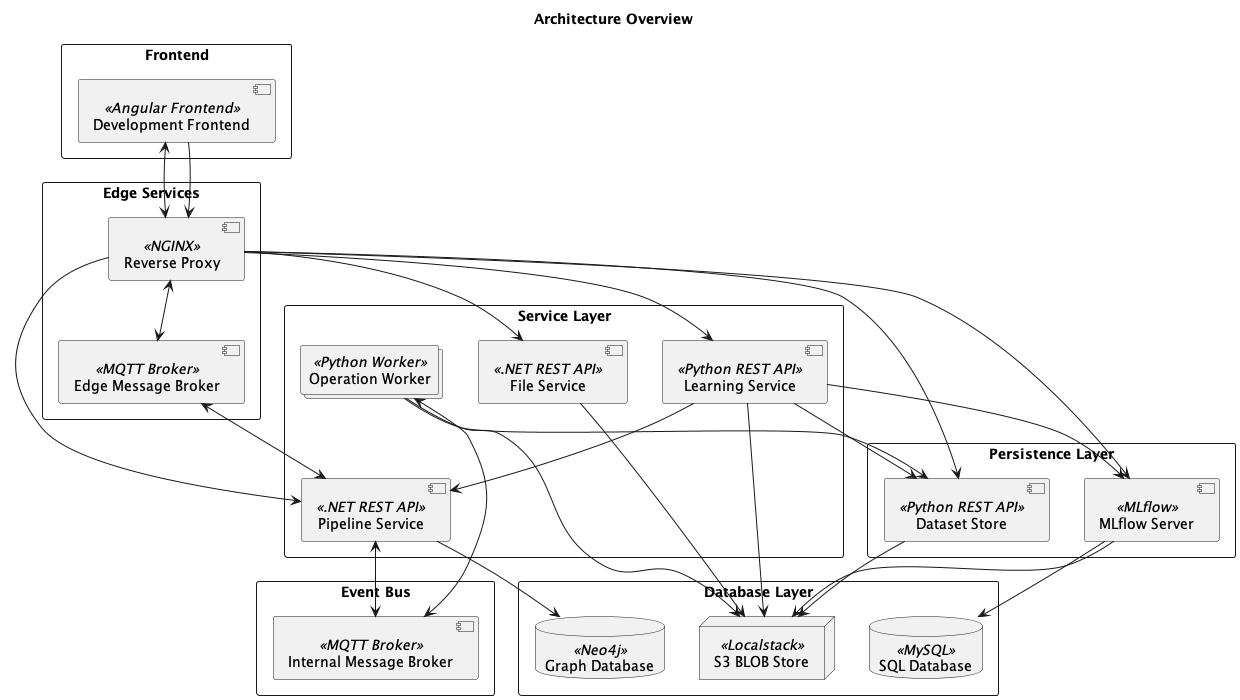
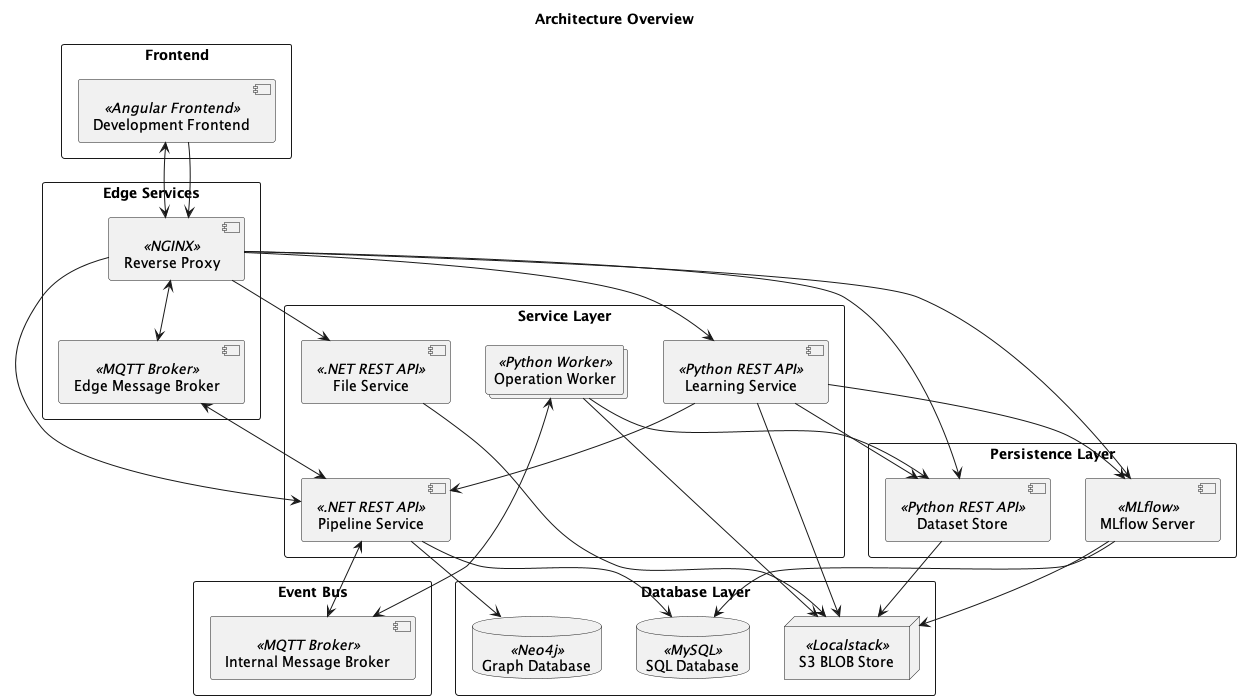
chore(pipeline-service): connect to database
Refs: PH-244

diff --git a/PipelineService/Dao/Impl/Neo4JPipelinesDao.cs b/PipelineService/Dao/Impl/Neo4JPipelinesDao.cs
@@ -32,8 +32,8 @@ namespace PipelineService.Dao.Impl
 
 			if (!_graphClient.IsConnected) await _graphClient.ConnectAsync();
 
-			_graphClient.WithAnnotations<PipelineContext>().Cypher.CreateUniqueConstraint<Operation>(n => n.Id);
-			_graphClient.WithAnnotations<PipelineContext>().Cypher.CreateUniqueConstraint<Pipeline>(n => n.Id);
+			_graphClient.WithAnnotations<PipelineGraphContext>().Cypher.CreateUniqueConstraint<Operation>(n => n.Id);
+			_graphClient.WithAnnotations<PipelineGraphContext>().Cypher.CreateUniqueConstraint<Pipeline>(n => n.Id);
 
 			_logger.LogInformation("Neo4j database setup complete");
 		}
@@ -99,7 +99,7 @@ namespace PipelineService.Dao.Impl
 			if (!_graphClient.IsConnected) await _graphClient.ConnectAsync();
 
 			var results = await _graphClient
-				.WithAnnotations<PipelineContext>().Cypher
+				.WithAnnotations<PipelineGraphContext>().Cypher
 				.Match(path => path.Pattern<Pipeline>("pipeline")
 					.Constrain(p => p.Id == pipelineId))
 				.Return(pipeline => pipeline.As<PipelineInfoDto>())
@@ -125,7 +125,7 @@ namespace PipelineService.Dao.Impl
 			try
 			{
 				await _graphClient
-					.WithAnnotations<PipelineContext>().Cypher
+					.WithAnnotations<PipelineGraphContext>().Cypher
 					.Match(path => path.Pattern<Pipeline>("pipeline")
 						.Constrain(p => p.Id == pipelineId))
 					.Match(path => path.Pattern<Operation>("operation")
@@ -147,7 +147,7 @@ namespace PipelineService.Dao.Impl
 			_logger.LogDebug("Updating pipeline {PipelineId}", pipelineDto.Id);
 			if (!_graphClient.IsConnected) await _graphClient.ConnectAsync();
 
-			await _graphClient.WithAnnotations<PipelineContext>().Cypher
+			await _graphClient.WithAnnotations<PipelineGraphContext>().Cypher
 				.Merge(path => path.Pattern<Pipeline>("p").Constrain(n => n.Id == pipelineDto.Id))
 				.Set("p", () => pipelineDto)
 				.ExecuteWithoutResultsAsync();
@@ -163,7 +163,7 @@ namespace PipelineService.Dao.Impl
 			if (!_graphClient.IsConnected) await _graphClient.ConnectAsync();
 
 			var query = _graphClient
-				.WithAnnotations<PipelineContext>().Cypher
+				.WithAnnotations<PipelineGraphContext>().Cypher
 				.Match(path => path.Pattern<Pipeline>("pipeline"));
 
 			if (userIdentifier != default)
@@ -185,7 +185,7 @@ namespace PipelineService.Dao.Impl
 
 			if (!_graphClient.IsConnected) await _graphClient.ConnectAsync();
 
-			var results = (await _graphClient.WithAnnotations<PipelineContext>().Tx.Cypher
+			var results = (await _graphClient.WithAnnotations<PipelineGraphContext>().Tx.Cypher
 				.Merge(path => path.Pattern<Pipeline>("ppln").Constrain(ppl => ppl.Id == pipeline.Id))
 				.OnCreate()
 				.Set("ppln", () => pipeline)
@@ -217,13 +217,13 @@ namespace PipelineService.Dao.Impl
 			root.ChangedOn = DateTime.UtcNow;
 
 			// TODO: Merge this into a single db call using annotations
-			await _graphClient.WithAnnotations<PipelineContext>().Cypher
+			await _graphClient.WithAnnotations<PipelineGraphContext>().Cypher
 				.Merge(path => path.Pattern<TN>("operationNode").Constrain(operationNode => operationNode.Id == root.Id))
 				.OnCreate()
 				.Set("operationNode", () => root)
 				.ExecuteWithoutResultsAsync();
 
-			await _graphClient.WithAnnotations<PipelineContext>().Cypher
+			await _graphClient.WithAnnotations<PipelineGraphContext>().Cypher
 				.Match(path => path.Pattern<TN>("rootoperation").Constrain(rootoperation => rootoperation.Id == root.Id))
 				.Match(path => path.Pattern<Pipeline>("pipeline").Constrain(pipeline => pipeline.Id == pipelineId))
 				.Merge("(pipeline)-[r:HAS_ROOT_NODE]->(rootoperation)")
@@ -242,7 +242,7 @@ namespace PipelineService.Dao.Impl
 			successor.ChangedOn = DateTime.UtcNow;
 
 			// TODO: Merge this into a single db call using annotations
-			await _graphClient.WithAnnotations<PipelineContext>().Cypher
+			await _graphClient.WithAnnotations<PipelineGraphContext>().Cypher
 				.Merge(path => path.Pattern<T>("operationNode").Constrain(operationNode => operationNode.Id == successor.Id))
 				.OnCreate()
 				.Set("operationNode", () => successor)
@@ -250,7 +250,7 @@ namespace PipelineService.Dao.Impl
 
 			foreach (var predecessorId in predecessorIds)
 			{
-				await _graphClient.WithAnnotations<PipelineContext>().Cypher
+				await _graphClient.WithAnnotations<PipelineGraphContext>().Cypher
 					.Match(path => path.Pattern<Operation>("predNode").Constrain(predNode => predNode.Id == predecessorId))
 					.Match(path => path.Pattern<Operation>("sucNode").Constrain(sucNode => sucNode.Id == successor.Id))
 					.Merge("(predNode)-[r:HAS_SUCCESSOR]->(sucNode)")
@@ -267,7 +267,7 @@ namespace PipelineService.Dao.Impl
 
 			if (!_graphClient.IsConnected) await _graphClient.ConnectAsync();
 
-			var operation = await _graphClient.WithAnnotations<PipelineContext>().Cypher
+			var operation = await _graphClient.WithAnnotations<PipelineGraphContext>().Cypher
 				.Match(path => path.Pattern<Operation>("operationNode")
 					.Constrain(operationNode => operationNode.Id == operationId))
 				.Return<Operation>("operationNode")
@@ -285,7 +285,7 @@ namespace PipelineService.Dao.Impl
 			if (!_graphClient.IsConnected) await _graphClient.ConnectAsync();
 			operation.ChangedOn = DateTime.UtcNow;
 
-			await _graphClient.WithAnnotations<PipelineContext>().Cypher
+			await _graphClient.WithAnnotations<PipelineGraphContext>().Cypher
 				.Merge(path => path.Pattern<T>("n").Constrain(n => n.Id == operation.Id))
 				.Set("n", () => operation)
 				.ExecuteWithoutResultsAsync();
@@ -297,7 +297,7 @@ namespace PipelineService.Dao.Impl
 		{
 			_logger.LogDebug("Deleting node {OperationId}", operationId);
 
-			await _graphClient.WithAnnotations<PipelineContext>().Cypher
+			await _graphClient.WithAnnotations<PipelineGraphContext>().Cypher
 				.Match(path => path.Pattern<Operation>("operationNode")
 					.Constrain(operationNode => operationNode.Id == operationId))
 				.DetachDelete("operationNode")
@@ -312,7 +312,7 @@ namespace PipelineService.Dao.Impl
 
 			if (!_graphClient.IsConnected) await _graphClient.ConnectAsync();
 
-			var query = _graphClient.WithAnnotations<PipelineContext>().Cypher
+			var query = _graphClient.WithAnnotations<PipelineGraphContext>().Cypher
 				.Match(path => path.Pattern<Operation, Operation>("predecessor", "target"))
 				.Return(() => new
 				{
@@ -358,7 +358,7 @@ namespace PipelineService.Dao.Impl
 				PipelineName = infoDto.Name
 			};
 
-			var resultNodes = (await _graphClient.WithAnnotations<PipelineContext>().Cypher
+			var resultNodes = (await _graphClient.WithAnnotations<PipelineGraphContext>().Cypher
 					.Match(path => path.Pattern<Operation>("operationNode"))
 					.Where((Operation operationNode) => operationNode.PipelineId == pipelineId)
 					.Return(() => new
@@ -392,7 +392,7 @@ namespace PipelineService.Dao.Impl
 				dto.Nodes.Add(resultNode);
 			}
 
-			var resultEdges = (await _graphClient.WithAnnotations<PipelineContext>().Cypher
+			var resultEdges = (await _graphClient.WithAnnotations<PipelineGraphContext>().Cypher
 					.Match(path => path.Pattern<Operation, Operation>("operationNode", "successor"))
 					.Where((Operation operationNode, Operation successor) =>
 						operationNode.PipelineId == pipelineId && successor.PipelineId == pipelineId)
@@ -424,7 +424,7 @@ namespace PipelineService.Dao.Impl
 			// TODO: This is a very inefficient way of doing this, but it keeps the order of datasets the same as the order of operationIds.
 			foreach (var operationId in operationIds)
 			{
-				var dataset = (await _graphClient.WithAnnotations<PipelineContext>().Cypher
+				var dataset = (await _graphClient.WithAnnotations<PipelineGraphContext>().Cypher
 						.Match(path => path.Pattern<Operation>("o"))
 						.Where((Operation o) => o.Id == operationId)
 						.Return(() => new { OutputSerialized = Return.As<string>("o.OutputSerialized") })
@@ -448,7 +448,7 @@ namespace PipelineService.Dao.Impl
 			_logger.LogDebug("Exporting pipeline {PipelineId}", pipelineId);
 
 			if (!_graphClient.IsConnected) await _graphClient.ConnectAsync();
-			var query = _graphClient.WithAnnotations<PipelineContext>().Cypher
+			var query = _graphClient.WithAnnotations<PipelineGraphContext>().Cypher
 				.Match(op => op.Pattern("op"))
 				.Where((Operation op) => op.PipelineId == pipelineId)
 				.Match("(op)-[rl]->()")
@@ -489,7 +489,7 @@ namespace PipelineService.Dao.Impl
 
 			if (!_graphClient.IsConnected) await _graphClient.ConnectAsync();
 
-			var query = _graphClient.WithAnnotations<PipelineContext>().Cypher
+			var query = _graphClient.WithAnnotations<PipelineGraphContext>().Cypher
 				.Match(path => path.Pattern<Operation>("o"))
 				.Return(() => new
 				{

diff --git a/PipelineService/Models/Metrics/CandidateImportMetric.cs b/PipelineService/Models/Metrics/CandidateImportMetric.cs
@@ -1,0 +1,56 @@
+using System;
+using System.ComponentModel.DataAnnotations.Schema;
+
+namespace PipelineService.Models.Metrics;
+
+/// <summary>
+/// Collects metrics when importing a pipeline candidate.
+/// </summary>
+public record CandidateImportMetric : BasePersistentModel
+{
+	/// <summary>
+	/// Whether the candidate was imported successfully.
+	/// </summary>
+	public bool Success { get; set; }
+
+	/// <summary>
+	/// A string representation of the error if the candidate was not imported successfully.
+	/// </summary>
+	public string Error { get; set; }
+
+	/// <summary>
+	/// The time the import started.
+	/// </summary>
+	public DateTime StartTime { get; set; }
+
+	/// <summary>
+	/// The time the import finished.
+	/// </summary>
+	public DateTime EndTime { get; set; }
+
+	/// <summary>
+	/// The number of actions in a pipeline candidate that are processed.
+	/// </summary>
+	public int ActionCount { get; set; }
+
+	/// <summary>
+	/// The OpenML task ID of the pipeline candidate.
+	/// </summary>
+	public string TaskId { get; set; }
+
+	/// <summary>
+	/// The pipeline candidate's batch number.
+	/// </summary>
+	public int BatchNumber { get; set; }
+
+	/// <summary>
+	/// The pipeline candidate's ID.
+	/// </summary>
+	public Guid PipelineId { get; set; }
+
+	/// <summary>
+	/// The time it took to import the pipeline candidate.
+	/// </summary>
+	[NotMapped]
+	public TimeSpan ImportDuration => EndTime - StartTime;
+}

diff --git a/PipelineService/Models/PipelineGraphContext.cs b/PipelineService/Models/PipelineGraphContext.cs
@@ -1,0 +1,44 @@
+using Neo4jClient;
+using Neo4jClient.DataAnnotations;
+using Neo4jClient.DataAnnotations.Serialization;
+using PipelineService.Models.Pipeline;
+
+namespace PipelineService.Models
+{
+	public class PipelineGraphContext : AnnotationsContext
+	{
+		public virtual EntitySet<Pipeline.Pipeline> Pipelines { get; set; }
+		public virtual EntitySet<Operation> Operations { get; set; }
+
+		public PipelineGraphContext(IGraphClient graphClient) : base(graphClient)
+		{
+		}
+
+		public PipelineGraphContext(IGraphClient graphClient, EntityService entityService) : base(graphClient, entityService)
+		{
+		}
+
+		public PipelineGraphContext(IGraphClient graphClient, EntityResolver resolver) : base(graphClient, resolver)
+		{
+		}
+
+		public PipelineGraphContext(IGraphClient graphClient, EntityResolver resolver, EntityService entityService) : base(
+			graphClient, resolver, entityService)
+		{
+		}
+
+		public PipelineGraphContext(IGraphClient graphClient, EntityConverter converter) : base(graphClient, converter)
+		{
+		}
+
+		public PipelineGraphContext(IGraphClient graphClient, EntityConverter converter, EntityService entityService) : base(
+			graphClient, converter, entityService)
+		{
+		}
+
+		protected PipelineGraphContext(IGraphClient graphClient, EntityResolver resolver, EntityConverter converter,
+			EntityService entityService) : base(graphClient, resolver, converter, entityService)
+		{
+		}
+	}
+}

diff --git a/PipelineService/Startup.cs b/PipelineService/Startup.cs
@@ -1,5 +1,6 @@
 using System;
 using System.Threading.Tasks;
+using HealthChecks.MySql;
 using Microsoft.AspNetCore.Builder;
 using Microsoft.AspNetCore.Hosting;
 using Microsoft.Extensions.Configuration;
@@ -47,12 +48,15 @@ namespace PipelineService
 			{
 				DefaultDatabase = Configuration.GetValue("NeoServerConfiguration:DefaultDatabase", "neo4j")
 			});
+			var defaultMySqlConnectionString = Configuration.GetConnectionString("DefaultConnection");
 
+			// external services
 			services.AddMemoryCache();
-
-			services.AddNeo4jAnnotations<PipelineContext>();
-
 			services.AddHttpClient();
+
+			// databases
+			services.AddNeo4jAnnotations<PipelineGraphContext>();
+
 
 			// Registering singleton services
 			services.AddSingleton<EventBusService>();
@@ -75,7 +79,9 @@ namespace PipelineService
 			services.AddHostedService<HostedSubscriptionService>();
 
 			// TODO: Add health checks to required services: https://github.com/Xabaril/AspNetCore.Diagnostics.HealthChecks
-			services.AddHealthChecks().AddCheck<Neo4JHealthCheck>("neo4j_health_check");
+			services.AddHealthChecks()
+				.AddCheck<Neo4JHealthCheck>("neo4j_health_check")
+				.AddMySql(connectionString: defaultMySqlConnectionString, name: "mysql_health_check");
 
 			services.AddControllers();
 			services.AddSwaggerGen(c =>

diff --git a/PipelineService/Dao/Impl/InMemoryPipelinesExecutionDao.cs b/PipelineService/Dao/Impl/InMemoryPipelinesExecutionDao.cs
@@ -48,7 +48,7 @@ namespace PipelineService.Dao.Impl
 
 			if (!_graphClient.IsConnected) await _graphClient.ConnectAsync();
 
-			var partitionRequest = _graphClient.WithAnnotations<PipelineContext>().Cypher
+			var partitionRequest = _graphClient.WithAnnotations<PipelineGraphContext>().Cypher
 				.Match($"(n:{nameof(Operation)})")
 				.Where("n.PipelineId=$pipeline_id").WithParam("pipeline_id", pipelineId)
 				.AndWhere("NOT (n)-[:HAS_SUCCESSOR]->()")
@@ -74,7 +74,7 @@ namespace PipelineService.Dao.Impl
 			_logger.LogDebug("Partitioned graph of pipeline {PipelineId} into {PartitionCount} partitions",
 				pipelineId, partitionResult.MaxLevel);
 
-			var executionRecordsRequest = _graphClient.WithAnnotations<PipelineContext>().Cypher
+			var executionRecordsRequest = _graphClient.WithAnnotations<PipelineGraphContext>().Cypher
 				.Match($"(n:{nameof(Operation)})")
 				.Where("n._visited=$visited_stamp").WithParam("visited_stamp", partitionResult.VisitedStamp)
 				.Return(() => new

diff --git a/PipelineService/Models/EfMetricsContext.cs b/PipelineService/Models/EfMetricsContext.cs
@@ -1,0 +1,18 @@
+using Microsoft.EntityFrameworkCore;
+using PipelineService.Models.Metrics;
+
+namespace PipelineService.Models;
+
+public class EfMetricsContext : DbContext
+{
+	public EfMetricsContext(DbContextOptions<EfMetricsContext> options) : base(options)
+	{
+	}
+
+	public DbSet<CandidateImportMetric> CandidateImportMetrics { get; set; }
+
+	protected override void OnModelCreating(ModelBuilder modelBuilder)
+	{
+		modelBuilder.Entity<CandidateImportMetric>().ToTable(nameof(CandidateImportMetrics));
+	}
+}

diff --git a/PipelineService/Services/HealthChecks/Neo4jHealthCheck.cs b/PipelineService/Services/HealthChecks/Neo4jHealthCheck.cs
@@ -33,7 +33,7 @@ namespace PipelineService.Services.HealthChecks
 
 			try
 			{
-				var query = _graphClient.WithAnnotations<PipelineContext>().Cypher
+				var query = _graphClient.WithAnnotations<PipelineGraphContext>().Cypher
 					.Match(path => path.Pattern<Pipeline>("pipeline"))
 					.Return(pipeline => pipeline.As<Pipeline>())
 					.Limit(1);
